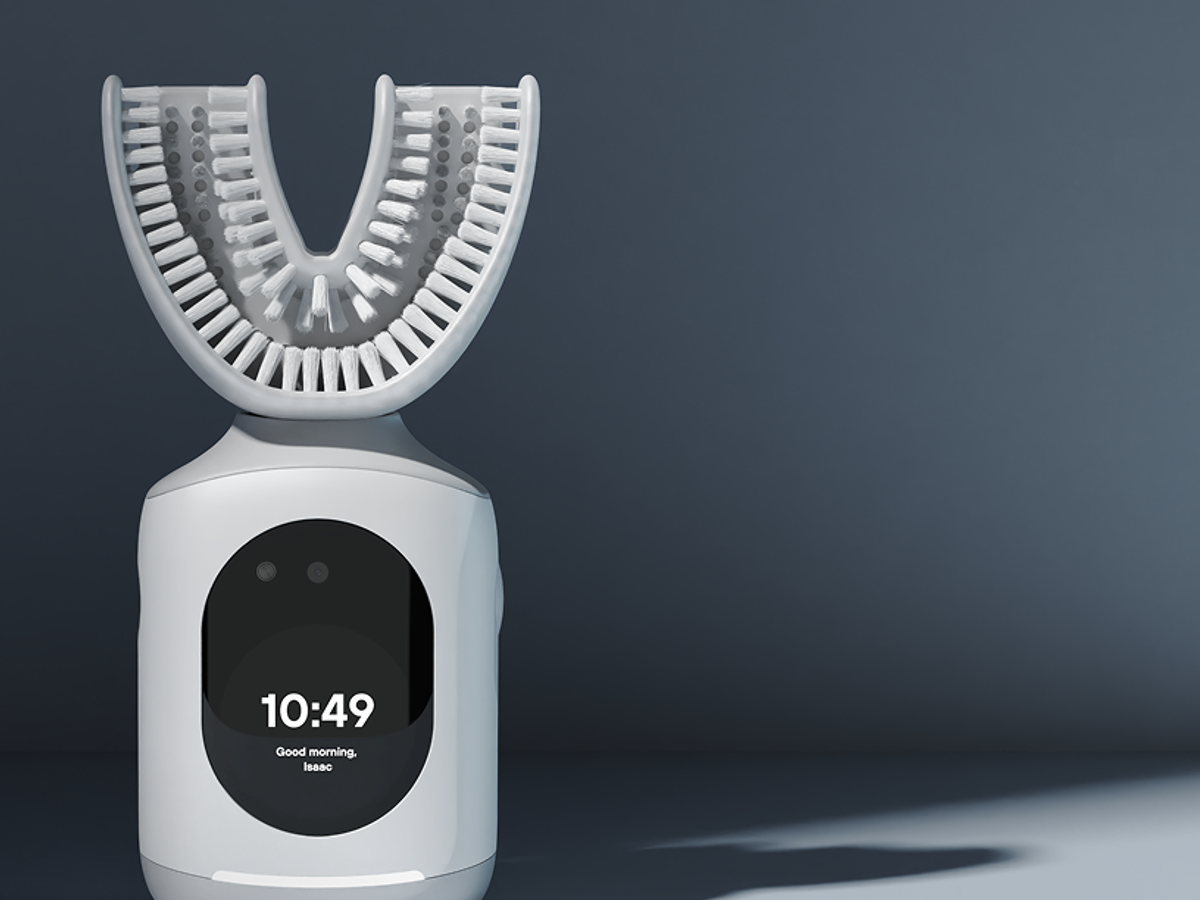
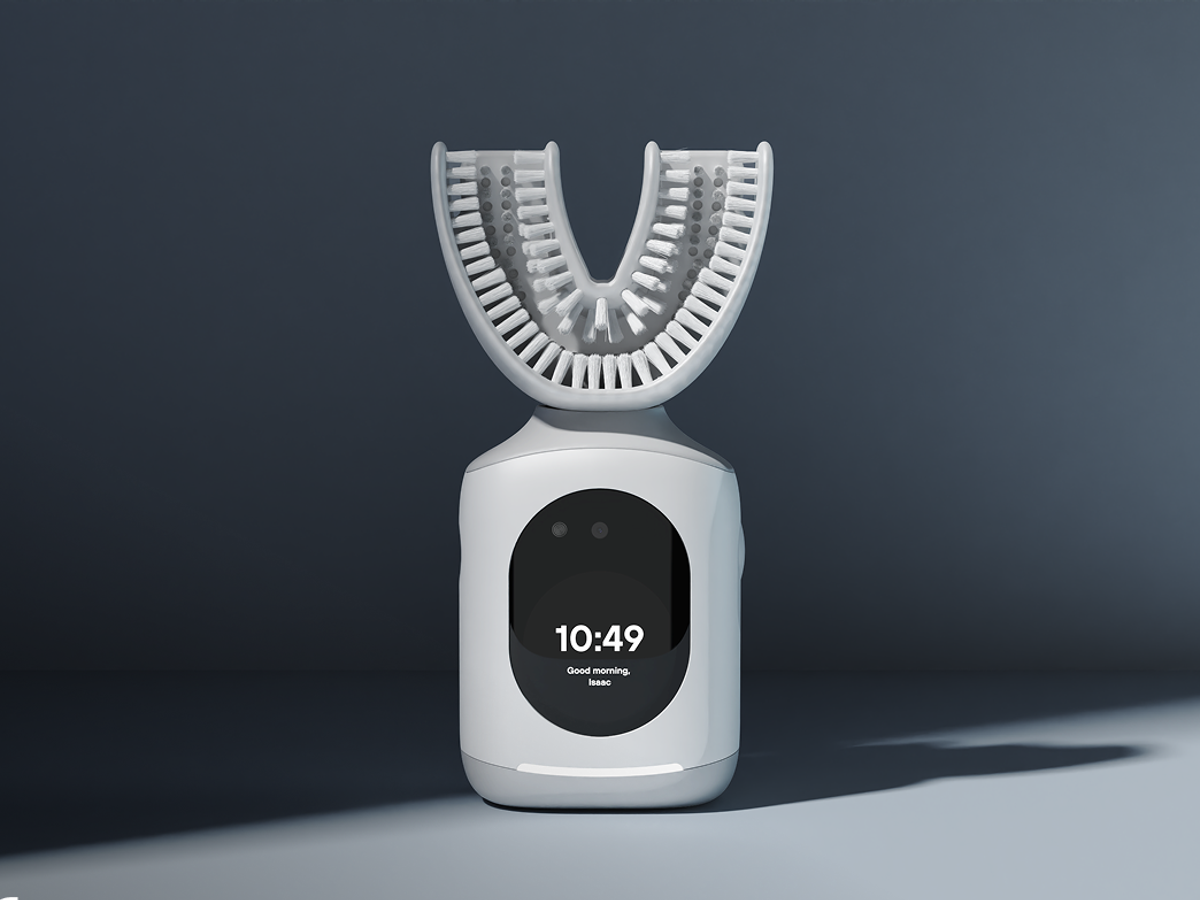
Center Feno portfolio image and use centered framing
Re-crop Feno assets to trim the bottom logo without shifting the
device left. Add a centered PortfolioImage fit variant and cache-bust
Feno URLs at v=4.

diff --git a/components/sections/portfolio/PortfolioImage.tsx b/components/sections/portfolio/PortfolioImage.tsx
@@ -5,20 +5,32 @@ type PortfolioImageProps = {
   alt: string;
   sizes?: string;
   priority?: boolean;
+  fit?: "default" | "centered";
+};
+
+const FIT_CLASSES = {
+  default: "object-cover max-w-none w-[128%] h-[120%] -left-[18%] -top-[1%]",
+  centered: "object-cover object-center",
 };
 
 /**
  * Renders portfolio photos with the bottom-left brand watermark cropped out.
  * Images are pre-processed, but this clip guard handles cache staleness too.
  */
-export function PortfolioImage({ src, alt, sizes, priority }: PortfolioImageProps) {
+export function PortfolioImage({
+  src,
+  alt,
+  sizes,
+  priority,
+  fit = "default",
+}: PortfolioImageProps) {
   return (
     <div className="absolute inset-0 overflow-hidden">
       <Image
         src={src}
         alt={alt}
         fill
-        className="object-cover max-w-none w-[128%] h-[120%] -left-[18%] -top-[1%]"
+        className={FIT_CLASSES[fit]}
         sizes={sizes}
         priority={priority}
         unoptimized

diff --git a/components/sections/CurrentPortfolio.tsx b/components/sections/CurrentPortfolio.tsx
@@ -10,7 +10,7 @@ import { STICKY_IMAGE_ZONE, STICKY_IMAGE_WIDTH, type PortfolioCompany } from "./
 
 const BASE = "/Bloom%20Portfolio%20Images/";
 const IMAGE_VERSION = "v=3";
-const img = (file: string) => `${BASE}${file}?${IMAGE_VERSION}`;
+const img = (file: string, version = IMAGE_VERSION) => `${BASE}${file}?${version}`;
 
 const PORTFOLIO: PortfolioCompany[] = [
   {
@@ -50,8 +50,9 @@ const PORTFOLIO: PortfolioCompany[] = [
     stage: "Seed",
     tags: ["Health Tech"],
     description: "One-line description coming soon",
-    imageSmall: img("Feno_Small.png"),
-    imageLarge: img("Feno_Large.png"),
+    imageSmall: img("Feno_Small.png", "v=4"),
+    imageLarge: img("Feno_Large.png", "v=4"),
+    imageFit: "centered",
   },
   {
     name: "OuterProduct",

diff --git a/components/sections/portfolio/PortfolioStickyImage.tsx b/components/sections/portfolio/PortfolioStickyImage.tsx
@@ -43,6 +43,7 @@ export function PortfolioStickyImage({ company, index }: PortfolioStickyImagePro
             alt={company.name}
             sizes={`${STICKY_IMAGE_WIDTH}px`}
             priority={index === 0}
+            fit={company.imageFit ?? "default"}
           />
         </motion.div>
       </AnimatePresence>

diff --git a/components/sections/portfolio/types.ts b/components/sections/portfolio/types.ts
@@ -6,6 +6,8 @@ export type PortfolioCompany = {
   imageSmall: string;
   imageLarge: string;
   hidden?: boolean;
+  /** Use centered framing when logo crop would offset the subject (e.g. Feno). */
+  imageFit?: "default" | "centered";
 };
 
 export const STAGE_STYLES: Record<string, { bg: string; text: string }> = {

diff --git a/components/sections/portfolio/PortfolioCompanyRow.tsx b/components/sections/portfolio/PortfolioCompanyRow.tsx
@@ -89,6 +89,7 @@ export function PortfolioCompanyRow({
             src={company.imageLarge}
             alt={company.name}
             sizes="100vw"
+            fit={company.imageFit ?? "default"}
           />
         </motion.div>
 
